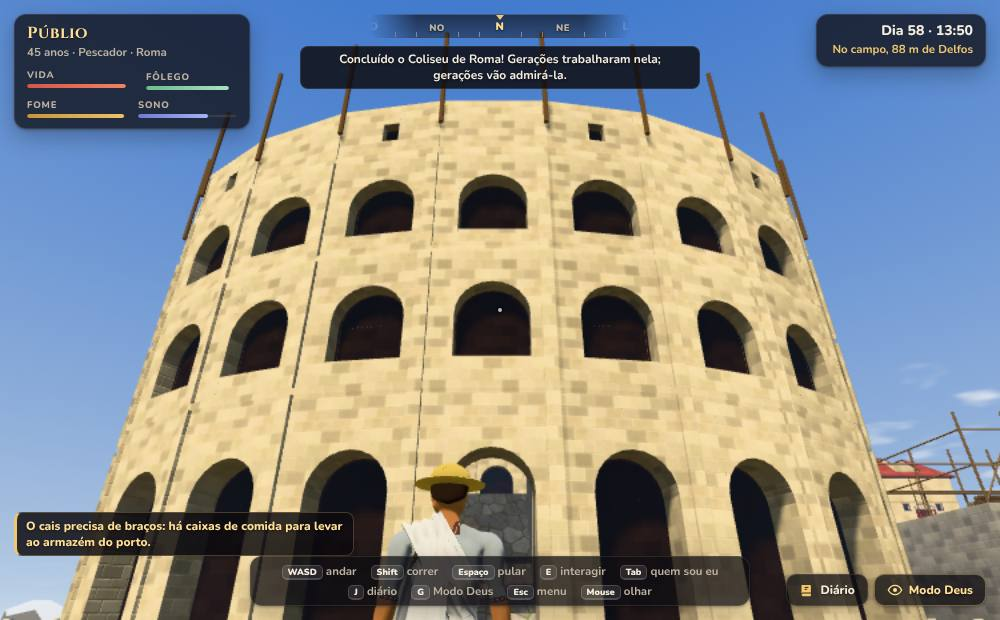
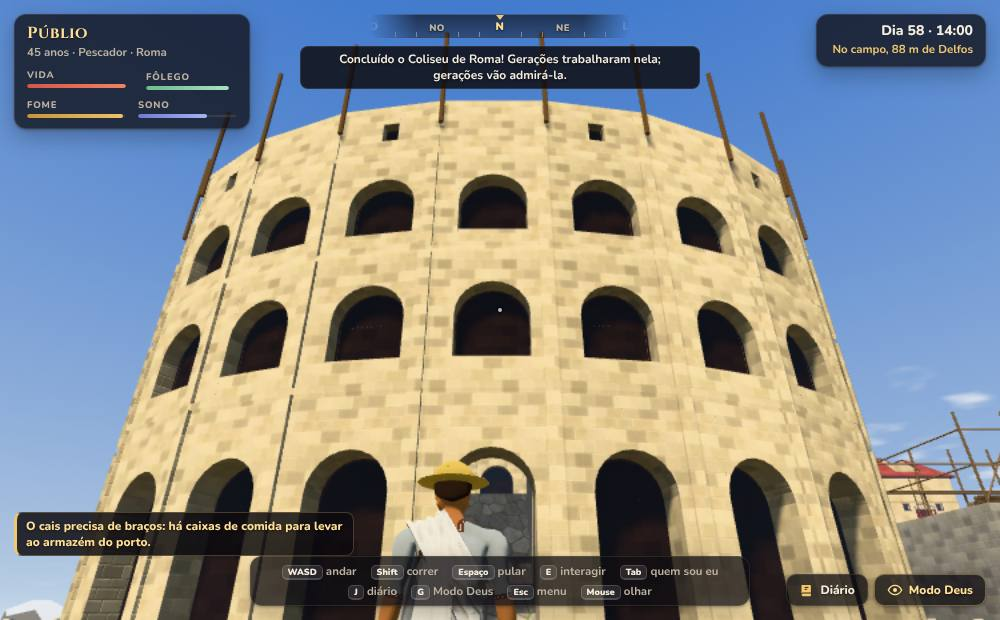
Arquitetura Monumental (E, 2ª rodada): o corpo à própria mesa (D-104), a laje sobre o pátio, a medida do quadro em turnos, as fotos do palácio
- D-104: na própria casa, à mesa, o E oferece «Sentar à mesa» sempre — com fome ou sem —; sentado, a refeição da casa quando há o
  que comer (o I.best dá o lugar à mesa antes da oferta da refeição enquanto o corpo está de pé).
- L-555: a laje do andar de cima não desenha borda sobre o pátio aberto — nem em volta dele (a face da parede) nem atravessando a
  frente aberta do palácio de 6 (a «viga» na altura do piso de cima).
- A geometria da forma grande guardada também pela qualidade; as janelas acesas guardadas sempre.
- O arco da arcada em 8 pedaços além do detalhe fino (12 perto); a coluna da forma com `lados` (os marcos de 8 lados do M1).
- qa/visual/monumental.js: o quadro medido em turnos (o pedaço do Coliseu com e sem ele, a mesma carga da máquina) — mediana e p95;
  o olhar pelo vão do portão também com o interior desenhado; o corpo à própria mesa (M); as fotos do palácio (fora, pátio, trono).

Claude-Session: https://claude.ai/code/session_01F321SCt2HpJvdvX4BkKwcf

Changed region(s): [[0.372, 0.7355, 0.527, 1.0], [0.961, 0.6129, 1.0, 0.6435], [0.93, 0.0306, 0.961, 0.0613]]

diff --git a/god-of-the-ant-farm/qa/visual/monumental.js b/god-of-the-ant-farm/qa/visual/monumental.js
@@ -26,9 +26,10 @@
 //   6. o verificador limpo, sem erro de módulo
 // Parte 2 (o navegador, o 3D desenhado por software — lento: poucas fotos, pequenas):
 //   7. as fotos em JPG: de fora (o corpo diante da fachada), da arena olhando as arquibancadas, do alto de um anel
-//   8. o quadro do Modo Encarnado (a medida do e8 do encarna: simulação + 3D, 90 quadros de 16 ms na qualidade média, mediana e
-//      p95) com o corpo diante do lugar do Coliseu — antes de fundá-lo e com ele à vista —, as chamadas e os triângulos; alvo: mediana
-//      ≤ 13 ms com o Coliseu — ou, com a máquina ocupada (os ms do 3D por software valem pouco: T-433), não acima da de antes
+//   8. o quadro do Modo Encarnado (a medida do e8 do encarna: simulação + 3D, quadros de 16 ms na qualidade média, mediana e p95) com o
+//      corpo diante do Coliseu, em turnos — o pedaço do canto dele com e sem ele, trocados a cada 15 quadros, seis vezes cada: a mesma
+//      carga da máquina para os dois (T-433) —; alvo: mediana ≤ 13 ms (ou não acima da sem ele × 1,15) e p95 não pior que a sem ele ×
+//      1,15. E, para ler, antes e depois de fundá-lo (um minuto entre as duas), as chamadas e os triângulos
 //   9. na qualidade leve (um pedaço em volta), o corpo no pedaço além do da ponta de lá do Coliseu: o pedaço do canto dele perto
 //      (sem a silhueta de longe no lugar do prédio inteiro)
 //   10. sem erro de página nem aviso no console
@@ -155,10 +156,11 @@ function nodePart() {
   // (the chunk drawn again: with the monument's geometry drawn anew — Build3D.formKeep off — and with it kept; the same triangles)
   const chunkMs = () => { let t = 1e9; for (let k = 0; k < 3; k++) { const t0 = performance.now(); const r = B3.nearGeo(cx0, cy0, C); t = Math.min(t, performance.now() - t0); for (const q in r) if (r[q]) r[q].dispose(); } return +t.toFixed(1); };
   const arr = () => { const r = B3.nearGeo(cx0, cy0, C); const a = { p: Array.from(r.solid.attributes.position.array), c: Array.from(r.solid.attributes.color.array), w: r.glass ? r.glass.attributes.position.count : 0 }; for (const q in r) if (r[q]) r[q].dispose(); return a; };
-  B3.formKeep = false; const msCold = chunkMs(); const A0 = arr(); B3.formKeep = true; B3.nearGeo(cx0, cy0, C); const msWarm = chunkMs(); const A1 = arr();
+  B3.formKeep = false; const msCold = chunkMs(); const A0 = arr(); B3.formKeep = true; B3.nearGeo(cx0, cy0, C); const made0 = B3.formKept().made; const msWarm = chunkMs(); const A1 = arr(); const redrawn = B3.formKept().made - made0;
   const same = A0.p.length === A1.p.length && A0.w === A1.w && A0.p.every((x, i) => Math.abs(x - A1.p[i]) < 1e-3) && A0.c.every((x, i) => Math.abs(x - A1.c[i]) < 1e-4);
   ok('1. os triângulos perto no teto (o detalhe fino)', cost.solid <= tetoPerto, `${cost.solid} triângulos (teto ${tetoPerto}) — por peça, mil: ${per.join(' · ')}`);
-  ok('1. o pedaço refeito com a geometria do monumento guardada: igual, e mais depressa', same && msWarm < msCold, `o pedaço ${cx0 / C},${cy0 / C} feito de novo em ${msCold} ms desenhando o Coliseu, em ${msWarm} ms com ele guardado (${B3.formKept().n} guardados); ${same ? 'os mesmos triângulos, as mesmas cores' : 'DIFERENTE'} (${A0.p.length / 9} triângulos)`);
+  // (the ms are the machine's — shared, they say little —: the proof is that the Colosseum is not drawn again, and the same comes out)
+  ok('1. o pedaço refeito com a geometria do monumento guardada: igual, sem desenhar o Coliseu de novo', same && !redrawn, `o pedaço ${cx0 / C},${cy0 / C} feito de novo 4 vezes com ele guardado: ${redrawn} vezes desenhado (${B3.formKept().n} guardados); ${same ? 'os mesmos triângulos, as mesmas cores' : 'DIFERENTE'} (${A0.p.length / 9} triângulos); ${msCold} ms desenhando o Coliseu, ${msWarm} ms com ele guardado (o mínimo de 3)`);
   // (the far figure of the chunk with only this building in it: the far picture of its chunk less the one without it)
   const farOf = () => { const g = B3.farGeo(cx0, cy0, C); return g ? g.attributes.position.count / 3 : 0; };
   const far1 = farOf(); const keep = S.buildings.get(b.id); S.buildings.delete(b.id); const far0 = farOf(); S.buildings.set(b.id, keep);
@@ -293,7 +295,12 @@ function nodePart() {
     const rcs = new THREE.Raycaster(); const o2 = PZ.W(RK.L / 2, RK.L), bk = PZ.W(RK.L / 2, RK.C[1]); const dl = Math.hypot(bk[0] - o2[0], bk[1] - o2[1]); const dn = [(bk[0] - o2[0]) / dl, (bk[1] - o2[1]) / dl];
     const rays = [1.6, 5.0].map(hh => { rcs.set(new THREE.Vector3(o2[0] + dn[0] * 0.3, pbase + RK.Hp + hh, o2[1] + dn[1] * 0.3), new THREE.Vector3(dn[0], 0, dn[1])); rcs.far = 60; const hit = rcs.intersectObject(mesh)[0]; return { hh, d: hit ? +(hit.distance + 0.3).toFixed(1) : null }; });
     const deep = RK.L - RK.C[1];
-    ok('P2. a frente do pátio aberta: da rua, pelo vão do portão, o olhar chega ao fundo do pátio', !RK.big && rays.every(q => q.d !== null && q.d >= deep - 0.6), `do meio da frente do lote ao fundo do pátio ${deep.toFixed(1)} m; o olhar a ${rays.map(q => `${q.hh} m: para a ${q.d} m`).join(', ')} (a frente que subia em altura cheia parava em ${(RK.L - RK.B[3]).toFixed(1)})`);
+    // (and with the inside drawn — the floors, the walls, the ceilings: the upper storey's slab, at its height, no beam across the
+    // court's front, L-555)
+    const insG = B3.interior(pp, pb); const im = new THREE.Group(); for (const k in insG.lv) if (!insG.lv[k].empty) im.add(new THREE.Mesh(insG.lv[k].build(), new THREE.MeshBasicMaterial({ side: THREE.DoubleSide }))); if (!insG.roof.empty) im.add(new THREE.Mesh(insG.roof.build(), new THREE.MeshBasicMaterial({ side: THREE.DoubleSide }))); im.updateMatrixWorld(true);
+    const l1 = pp.levels.find(l => l.lv === 1); const hIn = l1 ? l1.y - RK.Hp - 0.05 : 4.75;
+    rcs.set(new THREE.Vector3(o2[0] + dn[0] * 0.3, pbase + RK.Hp + hIn, o2[1] + dn[1] * 0.3), new THREE.Vector3(dn[0], 0, dn[1])); const hitIn = rcs.intersectObject(im, true)[0]; const dIn = hitIn ? +(hitIn.distance + 0.3).toFixed(1) : null;
+    ok('P2. a frente do pátio aberta: da rua, pelo vão do portão, o olhar chega ao fundo do pátio', !RK.big && rays.every(q => q.d !== null && q.d >= deep - 0.6) && (dIn === null || dIn >= deep - 0.6), `do meio da frente do lote ao fundo do pátio ${deep.toFixed(1)} m; o olhar a ${rays.map(q => `${q.hh} m: para a ${q.d} m`).join(', ')} (a frente que subia em altura cheia parava em ${(RK.L - RK.B[3]).toFixed(1)}); com o interior desenhado, na altura da laje de cima (${hIn.toFixed(1)} m): ${dIn === null ? 'nada no caminho' : 'para a ' + dIn + ' m'}`);
     // P3. the pieces of the courts the plan marks the form's (form: 1 — the fountain, the cypresses, the statues…): drawn, each in its
     // place, and none of them where the inside, once drawn, takes the outside away (B3.cuts)
     const cuts = B3.cuts(pb); const inCut = q => cuts.some(c2 => q[0] > c2[0] && q[1] > c2[1] && q[2] > c2[2] && q[0] < c2[3] && q[1] < c2[4] && q[2] < c2[5]);
@@ -343,6 +350,33 @@ function nodePart() {
     ok('P6. a câmera no pátio e no salão do trono: a distância pedida, nunca na pedra', qC.cur >= 4.3 && qH.cur >= Math.min(4.8, roomH) * 0.8 && !qC.stone && !qH.stone, `no pátio ${qC.cur.toFixed(1)} m de 4,8${qC.stone ? ' (NA PEDRA)' : ''}; no salão do trono ${qH.cur.toFixed(1)} m (até a parede do pátio ${roomH.toFixed(1)})${qH.stone ? ' (NA PEDRA)' : ''}`);
     G.Cam3D.OPT.follow = true;
   }
+  // ================ M. the body at its own table (D-104): «Sentar à mesa» always; seated, the meal — when there is what to eat ================
+  // (a grown-up of Roma whose house has a table, from the street in by its door — opened by the hand, as the verb does —, to it)
+  { const tableOf = h => { const p = h && h.built && h.type !== 'ruin' && Sp.planNow(h); return p && p.ok && p.entrance && p.entrance.out && p.items.some(it => /mesa/i.test((In.ITEMS[it.kind] || {}).name || '')) ? p : null; };
+    const cands = [...S.villagers.values()].filter(q => q.age >= 18 && q.age < 60 && q.home && !q.inside && !q.sleeping && q.set === (PZ.set || {}).id && G.Possess.can(q).ok && tableOf(S.buildings.get(q.home))).sort((a2, b2) => a2.id - b2.id).slice(0, 6);
+    let M0 = null, tried = 0;
+    for (const w of cands) {
+      const h = S.buildings.get(w.home), hp = tableOf(h); const hx = h.x * TL, hz = h.y * TL; const e = hp.entrance; tried++;
+      G.inSim++; G.Vg.endTask(w); w.x = (hx + e.out[0]) / TL; w.y = (hz + e.out[1]) / TL; w.path = null; S.time = 0.42; In.useDoor(h, e.door, 'abrir', w); G.inSim--;
+      G.Possess.take(w); G.Avatar.attach(w, 0); for (let k = 0; k < 6; k++) frame();
+      walkTo(hx + e.x, hz + e.z, 600); walkTo(hx + e.x - (e.out[0] - e.x) * 0.6, hz + e.z - (e.out[1] - e.z) * 0.6, 300);
+      const lv = lvl(); const here = () => [st().X - hx, st().Z - hz];
+      const pl = lv === undefined ? null : In.freeNear(h, lv, here()[0], here()[1], 30).filter(q => q.use === 'comer').sort((a2, b2) => Math.hypot(a2.x - here()[0], a2.z - here()[1]) - Math.hypot(b2.x - here()[0], b2.z - here()[1]))[0];
+      if (pl) { const sf = In.standFor(h, pl, here()[0], here()[1]); walkTo(hx + sf[0], hz + sf[1], 600, 0.3);
+        if (Math.hypot(st().X - hx - sf[0], st().Z - hz - sf[1]) < 0.6) {
+          const look = () => { const ya = Math.atan2(hz + pl.z - st().Z, hx + pl.x - st().X); IN.camYaw = ya; st().yaw = ya; frame(); return G.Interact.best(); };
+          // (not hungry, the pantry as it is: at the table it sits)
+          G.inSim++; w.hunger = 5; G.inSim--; const b0 = look(); let seated = false;
+          if (b0 && b0.id === 'lugar') { G.Interact.run(b0); for (let k = 0; k < 150 && !(G.Avatar.seatNow() && G.Avatar.seatNow().k >= 1); k++) frame(); seated = !!(G.Avatar.seatNow() && G.Avatar.seatNow().k >= 1); }
+          // (seated: the meal of the house — without hunger, said why; with hunger, offered)
+          const b1 = G.Interact.best(); G.inSim++; w.hunger = 60; G.inSim--; const b2 = G.Interact.best();
+          const tx = b => (b ? `${b.id} «${b.label}»${b.ok ? '' : ' (' + b.why + ')'}` : 'nada');
+          M0 = { who: w.name, house: h.type + '#' + h.id, b0: tx(b0), seated, b1: tx(b1), b2: tx(b2), ok: !!b0 && b0.id === 'lugar' && b0.ok && seated && !!b2 && b2.id === 'atividade' && /comer|cear/i.test(b2.label) };
+        }
+      }
+      G.Possess.release('deus'); G.Avatar.detach(); for (let k = 0; k < 90; k++) frame(); if (M0) break; // (the world takes the person back in its step, as in the game)
+    }
+    ok('M. o corpo à própria mesa (D-104): sem fome, senta; sentado, a refeição da casa', !!M0 && M0.ok, M0 ? `${M0.who} em casa (${M0.house}): de pé, sem fome — ${M0.b0}; sentado: ${M0.seated}; sentado, sem fome — ${M0.b1}; com fome — ${M0.b2}` : `nenhuma das ${tried} casas com mesa de Roma deixou o corpo chegar à mesa`); }
   // ---------------- 6. the verifier ----------------
   const vb = QA.check().filter(q => q.sev <= 2 && !bad0.has(q.sys + '|' + q.msg)); const er = M.erros();
   ok('6. o verificador limpo, sem erro de módulo', !vb.length && !Object.keys(er.mod).length && !er.console.length, `${vb.length ? vb.slice(0, 3).map(q => `S${q.sev} ${q.sys}: ${q.msg}`).join(' · ') : 'verificador limpo'}; módulos ${JSON.stringify(er.mod)}; console ${er.console.slice(0, 2).join(' | ') || 'limpo'}`);
@@ -394,13 +428,38 @@ async function browserPart() {
       return { ok: true, id: b.id, x: b.x, y: b.y, teste: !!G.ColiseuTeste };
     });
     if (!r1.ok) { ok('7. o Coliseu fundado', false, 'o handFound não fundou'); return fails; }
+    // (its plan made — once, when the eye first asks for it: Space.plan, the pump's — and its chunk drawn with it: the frame
+    // measured with the Colosseum in view as it stays; the one time a chunk is drawn again for it is the part 1's measure)
+    await page.evaluate(() => { const V = window.__VIS; G.Space.planNow(G.S.buildings.get(window.__b)); V.warm(2); V.f(10, 33); });
     const after = await measure();
     console.log(`(o Coliseu ${r1.teste ? 'DE TESTE' : 'do M1'} #${r1.id} em ${r1.x},${r1.y}; o chão do lote tinha ${r0.drop0} m de desnível${r0.h0 !== null ? ', aplainado pela mão do deus' : ''}; o corpo: ${r0.who})`);
+    // (and in turns, under the same load — the machine is shared: a frame measured before the founding and one a minute after are
+    // worth little, T-433 —: the chunk of the Colosseum's corner drawn with it and without it, swapped every 15 frames, six times
+    // each; the frame as the e8 measures it. The one time the chunk is drawn again for it is part 1's)
+    const turns = await page.evaluate(() => {
+      const V = window.__VIS, R3 = G.Realm, B3 = G.Build3D, S = G.S; const b = S.buildings.get(window.__b); const T = G.Space.TILE, C = 16;
+      const st = G.Avatar.state(); const s = window.__site; const cx = (s.site[0] + s.n / 2) * T, cz = (s.site[1] + s.n / 2) * T; const yaw = Math.atan2(cz - st.Z, cx - st.X);
+      R3.setQuality('media'); V.warm(2); st.yaw = yaw; G.Cam3D.OPT.follow = false; G.Cam3D.yaw = yaw; G.Cam3D.pitch = 0.12; G.Cam3D.dist = 4.8; V.f(20, 33);
+      const x0 = Math.floor(b.x / C) * C, y0 = Math.floor(b.y / C) * C;
+      // (the chunk's buildings as the realm drew them: its solid mesh — the one with as many points as the chunk's buildings drawn
+      // again here, the same drawing)
+      const MS = R3.mats().solid; let M = null; const ref = B3.nearGeo(x0, y0, C); const nRef = ref.solid ? ref.solid.attributes.position.count : -1; for (const q in ref) if (ref[q]) ref[q].dispose();
+      R3.scene().traverse(o => { if (!M && o.isMesh && o.material === MS && o.geometry && o.geometry.attributes.position && o.geometry.attributes.position.count === nRef) M = o; });
+      if (!M) { R3.setQuality('baixa'); return { none: true }; }
+      const keep = S.buildings.get(b.id); S.buildings.delete(b.id); let wo; try { wo = B3.nearGeo(x0, y0, C); } finally { S.buildings.set(b.id, keep); }
+      const withG = M.geometry, noG = wo.solid || new THREE.BufferGeometry();
+      const run = (g, n, out) => { M.geometry = g; for (let k = 0; k < n; k++) { const t0 = performance.now(); G.Main.frameFor(16); out.push(performance.now() - t0); } };
+      const A = [], B = []; run(withG, 6, []); for (let k = 0; k < 6; k++) { run(withG, 15, A); run(noG, 15, B); }
+      M.geometry = withG; for (const q in wo) if (wo[q] && wo[q] !== noG) wo[q].dispose(); noG.dispose();
+      { const re = B3.nearGeo(x0, y0, C); for (const q in re) if (re[q]) re[q].dispose(); } // (the chunk's lamps and tops as they were)
+      R3.setQuality('baixa');
+      const q = (a, p) => { const s2 = a.slice().sort((x, y) => x - y); return +s2[Math.min(s2.length - 1, Math.floor(s2.length * p))].toFixed(1); };
+      return { withM: q(A, 0.5), withP: q(A, 0.95), noM: q(B, 0.5), noP: q(B, 0.95), tris: [Math.round(withG.attributes.position.count / 3), wo.solid ? Math.round(wo.solid.attributes.position.count / 3) : 0] };
+    });
     const load = require('os').loadavg()[0], cores = require('os').cpus().length;
-    // (the ms of a machine drawing 3D by software and shared with other proofs are worth little — T-433: the Colosseum is held to the
-    // frame before it in the same run, and to the e8's 13 ms when the machine is free; the calls and the triangles always compare)
-    ok('8. o quadro do Modo Encarnado com o Coliseu à vista (a medida do e8, qualidade média): mediana ≤ 13 ms, ou não acima da de antes', after.med <= 13 || after.med <= before.med * 1.15 + 1, `carga da máquina ${load.toFixed(1)} em ${cores} núcleos; antes ${before.med} ms (p95 ${before.p95}), ${before.calls} chamadas, ${(before.tris / 1000).toFixed(0)} mil triângulos → com o Coliseu ${after.med} ms (p95 ${after.p95}), ${after.calls} chamadas, ${(after.tris / 1000).toFixed(0)} mil triângulos`);
-    console.log(`DESEMPENHO | monumental | Roma da metrópole, o corpo diante do Coliseu: mediana ${before.med} → ${after.med} ms, p95 ${before.p95} → ${after.p95} ms, chamadas ${before.calls} → ${after.calls}, triângulos ${before.tris} → ${after.tris}`);
+    ok('8. o quadro do Modo Encarnado com o Coliseu à vista (a medida do e8, qualidade média, em turnos com e sem ele): mediana ≤ 13 ms (ou não acima da sem ele × 1,15) e p95 não pior que a sem ele × 1,15', !turns.none && (turns.withM <= 13 || turns.withM <= turns.noM * 1.15 + 0.5) && turns.withP <= turns.noP * 1.15 + 0.5,
+      turns.none ? 'o pedaço do Coliseu não achado na cena' : `carga da máquina ${load.toFixed(1)} em ${cores} núcleos; em turnos (6 × 15 quadros cada): sem o Coliseu ${turns.noM} ms (p95 ${turns.noP}) → com ele ${turns.withM} ms (p95 ${turns.withP}); o pedaço do canto ${turns.tris[1]} → ${turns.tris[0]} triângulos`);
+    console.log(`DESEMPENHO | monumental | Roma da metrópole, o corpo diante do Coliseu: em turnos, mediana ${turns.noM} → ${turns.withM} ms, p95 ${turns.noP} → ${turns.withP} ms; antes e depois de fundá-lo (um minuto entre as duas, carga ${load.toFixed(1)}): mediana ${before.med} → ${after.med} ms, p95 ${before.p95} → ${after.p95} ms, chamadas ${before.calls} → ${after.calls}, triângulos ${before.tris} → ${after.tris}`);
     // the photos: the eye's pose set after the game's own (the photos only: what the camera does is the part 1's proof)
     const shot = async (name, pose) => {
       await page.evaluate(p => {

diff --git a/god-of-the-ant-farm/js/build3d.js b/god-of-the-ant-farm/js/build3d.js
@@ -1777,7 +1777,7 @@ float m3scale(float p) {
     // pier where the machine carries detail; the inner face from dentro.y0 up, the same arches, their dark at the gallery's middle;
     // the walk on its top
     arcada(K, e, X) {
-      const n = e.pts.length; const lit = rgbOf(X.col(e.cor[0])); const dark = X.col(e.escuro || '#2a1e18'); const M = 6;
+      const n = e.pts.length; const lit = rgbOf(X.col(e.cor[0])); const dark = X.col(e.escuro || '#2a1e18'); const M = K.fine ? 6 : 4; // (an arch's half-round in 12 pieces near, 8 beyond the fine detail)
       const open = new Set(e.abertos || []); const yFoot = X.foot(e.y0); const din = e.dentro ? e.dentro.y0 : Infinity;
       // (a face of a bay: the middle of its line, the way along it, the way out of it — away from the other face —, its length)
       const frame = (p0, p1, q0, q1) => { const m = [(p0[0] + p1[0]) / 2, (p0[1] + p1[1]) / 2], mq = [(q0[0] + q1[0]) / 2, (q0[1] + q1[1]) / 2]; const bw = Math.hypot(p1[0] - p0[0], p1[1] - p0[1]) || 1e-6;
@@ -1924,10 +1924,11 @@ float m3scale(float p) {
       const p = X.pt(e.p[0], e.p[1], e.p[2]); K.as('iron', () => { K.cyl(p[0], p[1], p[2], 0.07, 0.55, '#4a3a2a'); K.sph(p[0], p[1] + 0.62, p[2], e.r, '#5a4030', e.r * 0.45); });
       K.as('soil', () => K.sph(p[0], p[1] + 0.72, p[2], e.r * 0.75, [226, 98, 40], e.r * 0.2)); // (the embers)
     },
-    // a round shaft standing alone: sixteen faces from its foot to its top, and its top; the frieze winding up it — a band
-    // standing out a finger, the shaft's stone a little darker — from espiral.y0, a turn every espiral.passo
+    // a round shaft standing alone: sixteen faces from its foot to its top — lados of them where the form says: a milestone's
+    // eight —, and its top; the frieze winding up it — a band standing out a finger, the shaft's stone a little darker — from
+    // espiral.y0, a turn every espiral.passo
     coluna(K, e, X) {
-      const C = X.XZ(e.c[0], e.c[1]), y0 = X.foot(e.y0), y1 = X.Y(e.y1), r = e.r, N = 16; const col = X.col(e.cor[0]);
+      const C = X.XZ(e.c[0], e.c[1]), y0 = X.foot(e.y0), y1 = X.Y(e.y1), r = e.r, N = e.lados >= 3 ? Math.round(e.lados) : 16; const col = X.col(e.cor[0]);
       const p = (a, rr, y) => [C[0] + Math.cos(a) * rr, y, C[1] + Math.sin(a) * rr];
       K.as(X.mat(e, 'marble'), () => { for (let k = 0; k < N; k++) { const a0 = k / N * TAU, a1 = (k + 1) / N * TAU, am = (a0 + a1) / 2;
         K.quad(p(a0, r, y0), p(a1, r, y0), p(a1, r, y1), p(a0, r, y1), col, [Math.cos(am), 0, Math.sin(am)]); K.tri([C[0], y1, C[1]], p(a0, r, y1), p(a1, r, y1), col, UP); } });
@@ -2156,14 +2157,14 @@ float m3scale(float p) {
     const keep = B3.formKeep && F.L >= 24 && K.g === g && (!skip || skip === riskSkips.get(F));
     if (keep) {
       const b = K.b; const set = G.S.settlements.get(b.set);
-      const key = [b.id, F.type, F.style, F.L, side, onPlan ? 1 : 0, skip ? 'r' : '-', K.fine ? 1 : 0, K.prog >= 1 ? 1 : 0, Math.floor(K.hurt * 20), b.v || 0, (set && set.fac) || 0, G.S.typeVer || 0, K.lo.toFixed(2), K.hi.toFixed(2), K.y0.toFixed(2)].join('|');
+      const key = [b.id, F.type, F.style, F.L, side, onPlan ? 1 : 0, skip ? 'r' : '-', K.fine ? 1 : 0, (R3.Q && R3.Q() ? R3.Q().lod + '/' + R3.Q().detail : ''), K.prog >= 1 ? 1 : 0, Math.floor(K.hurt * 20), b.v || 0, (set && set.fac) || 0, G.S.typeVer || 0, K.lo.toFixed(2), K.hi.toFixed(2), K.y0.toFixed(2)].join('|');
       let m = FKEEP.get(b.id);
       if (!m || m.key !== key || m.F !== F) {
-        const g1 = R3.Geo(), gw1 = R3.Geo(), gp1 = R3.Geo(), gq1 = R3.WGeo(); const K1 = kit(g1, b, gp1, gq1, K.fine); K1.lit = K.lit ? [] : null;
+        const g1 = R3.Geo(), gw1 = R3.Geo(), gp1 = R3.Geo(), gq1 = R3.WGeo(); const K1 = kit(g1, b, gp1, gq1, K.fine); K1.lit = []; // (its lit windows kept always: laid where the chunk asks for them)
         const top = formIn(g1, gw1, K1, F, side, skip, onPlan);
         // (a form that lays plants or water too — the gardens, the pools —: drawn straight into the chunk, every time)
         if (!gp1.empty || !gq1.empty) { FKEEP.delete(b.id); return formIn(g, gw, K, F, side, skip, onPlan); }
-        m = { key, F, g: packG(g1), gw: packG(gw1), lit: K1.lit || [], body: K1.body, top }; fkMade++;
+        m = { key, F, g: packG(g1), gw: packG(gw1), lit: K1.lit, body: K1.body, top }; fkMade++;
       }
       FKEEP.delete(b.id); FKEEP.set(b.id, m); if (FKEEP.size > FKEEP_MAX) FKEEP.delete(FKEEP.keys().next().value); // (the one drawn longest ago let go)
       unpackG(g, m.g); unpackG(gw, m.gw); if (K.lit) for (const q of m.lit) K.lit.push(q); K.body = m.body; K.footed = true;
@@ -3193,7 +3194,13 @@ float m3scale(float p) {
       for (const r of pieces) { const q = clipR(r, A); if (q) flatQ(K, q, yb + jh, wd, -1); }
       // (the edges: of the storey's own area where it stands free over the room, and round each hole)
       const R = l.area; const edge = (x0, z0, x1, z1, out) => K.quad([x0, yb, z0], [x1, yb, z1], [x1, y, z1], [x0, y, z0], wd, out);
-      edge(R[0], R[1], R[2], R[1], [0, 0, -1]); edge(R[2], R[1], R[2], R[3], [1, 0, 0]); edge(R[2], R[3], R[0], R[3], [0, 0, 1]); edge(R[0], R[3], R[0], R[1], [-1, 0, 0]);
+      // (an edge of the storey's area where it runs over the court open through it — the palace of six's open front, its court's
+      // back: no slab there, the court's —, left out: L-555)
+      const side = (x0, z0, x1, z1, out) => { const ax = Math.abs(z1 - z0) < 1e-6; const c = open, m = 0.05;
+        if (!c || !(ax ? z0 > c[1] - m && z0 < c[3] + m : x0 > c[0] - m && x0 < c[2] + m)) return edge(x0, z0, x1, z1, out);
+        const a = ax ? Math.min(x0, x1) : Math.min(z0, z1), b2 = ax ? Math.max(x0, x1) : Math.max(z0, z1), c0 = ax ? c[0] : c[1], c1 = ax ? c[2] : c[3];
+        for (const [s, e] of [[a, Math.min(b2, c0)], [Math.max(a, c1), b2]]) if (e - s > 0.02) edge(ax ? s : x0, ax ? z0 : s, ax ? e : x0, ax ? z0 : e, out); };
+      side(R[0], R[1], R[2], R[1], [0, 0, -1]); side(R[2], R[1], R[2], R[3], [1, 0, 0]); side(R[2], R[3], R[0], R[3], [0, 0, 1]); side(R[0], R[3], R[0], R[1], [-1, 0, 0]);
       for (const h of holes) { if (h === open) continue; edge(h[0], h[1], h[2], h[1], [0, 0, 1]); edge(h[2], h[1], h[2], h[3], [-1, 0, 0]); edge(h[2], h[3], h[0], h[3], [0, 0, -1]); edge(h[0], h[3], h[0], h[1], [1, 0, 0]); }
     });
     // (the joists, across the short way, every 60 cm: cut where a hole is)

diff --git a/god-of-the-ant-farm/js/interact.js b/god-of-the-ant-farm/js/interact.js
@@ -45,7 +45,7 @@
   I.FACE = Math.PI / 4; // (radians: a door this far round from where the body looks, or less, is the door it faces — L-326)
   I.best = function () {
     const ctx = I.ctx(); if (!ctx || G.Avatar.swimming()) return null; // (the hands are swimming)
-    let best = null, bs = -1, door = null, ds = -1, pass = null, ps = -1, open = null, os = -1, faced = null, fs = -1;
+    let best = null, bs = -1, door = null, ds = -1, pass = null, ps = -1, open = null, os = -1, faced = null, fs = -1, seat = null, ss = -1;
     for (const p of I.list) {
       for (const t of p.find(ctx)) {
         // (t.reach: a target reached from farther than its kind — the door of a house from its doorstep)
@@ -53,6 +53,7 @@
         const sc = s + p.prio * 0.6 + (t.pref || 0); // (pref: a target meant more, or less, than the others in the same reach)
         const c = { p, t };
         if (sc > bs) { bs = sc; best = c; }
+        if (p.id === 'lugar' && sc + (t.pl.use === 'comer' ? 10 : 0) > ss) { ss = sc + (t.pl.use === 'comer' ? 10 : 0); seat = c; } // (a place at a table first)
         if (p.door && sc > ds) { ds = sc; door = c; }
         if (p.passing && sc > ps) { ps = sc; pass = c; }
         if (p.opens && sc > os) { os = sc; open = c; }
@@ -60,6 +61,10 @@
       }
     }
     if (!best) return null;
+    // (at the table of its own house the body sits first — «Sentar à mesa», always —, and eats there once seated, when there is
+    // what to eat: the meal of the house the world offers at the table gives way to the place at it while the body stands, hungry
+    // or not — D-104: the body of the god lives the house, not only the hunger)
+    if (seat && best.p.id === 'atividade' && best.t.o && /^lar\.comer:/.test(best.t.o.id || '')) best = seat;
     // (an offer of the world with no place of its own, where the body stands — the meal on the floor of a house with no table,
     // seat nor hearth —: what the body faces in reach is meant before it. Its point was the body's own, its bearing the noise of
     // two positions a hair apart: by the mat of the house#35280 of the metrópole of the generation 11 the body facing its bed
